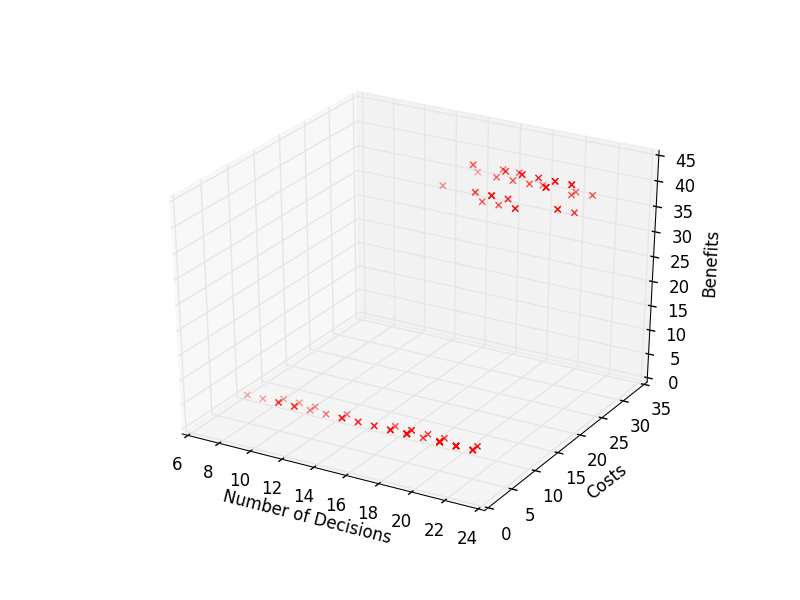
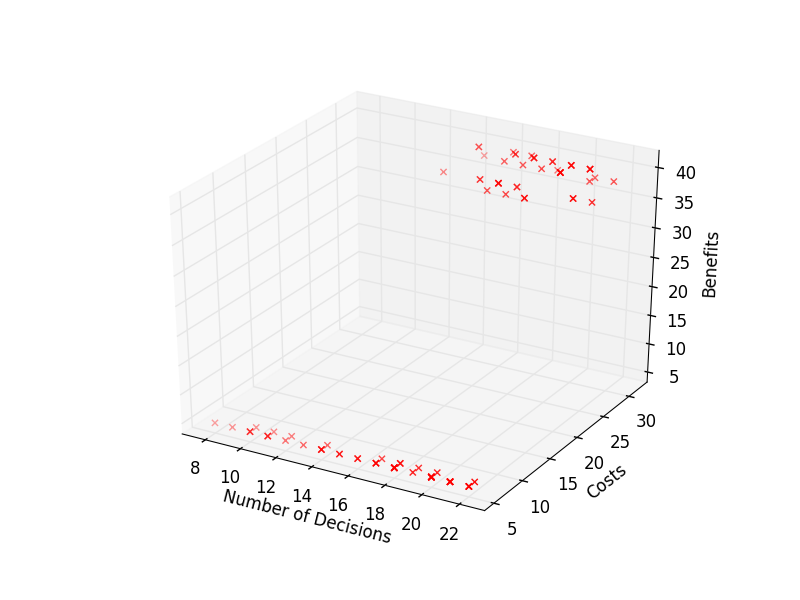
3d plot

diff --git a/src/utilities/plotter.py b/src/utilities/plotter.py
@@ -183,5 +183,8 @@ def point_plot_3d(x_axis, y_axis, z_axis,
   ax.set_xlabel(x_label)
   ax.set_ylabel(y_label)
   ax.set_zlabel(z_label)
+  ax.set_xlim3d(left=min(x_axis)-1, right=max(x_axis)+1)
+  ax.set_ylim3d(bottom=min(y_axis)-1, top=max(y_axis)+1)
+  ax.set_zlim3d(bottom=min(z_axis)-1, top=max(z_axis)+1)
   plt.savefig(file_name)
   plt.clf()
